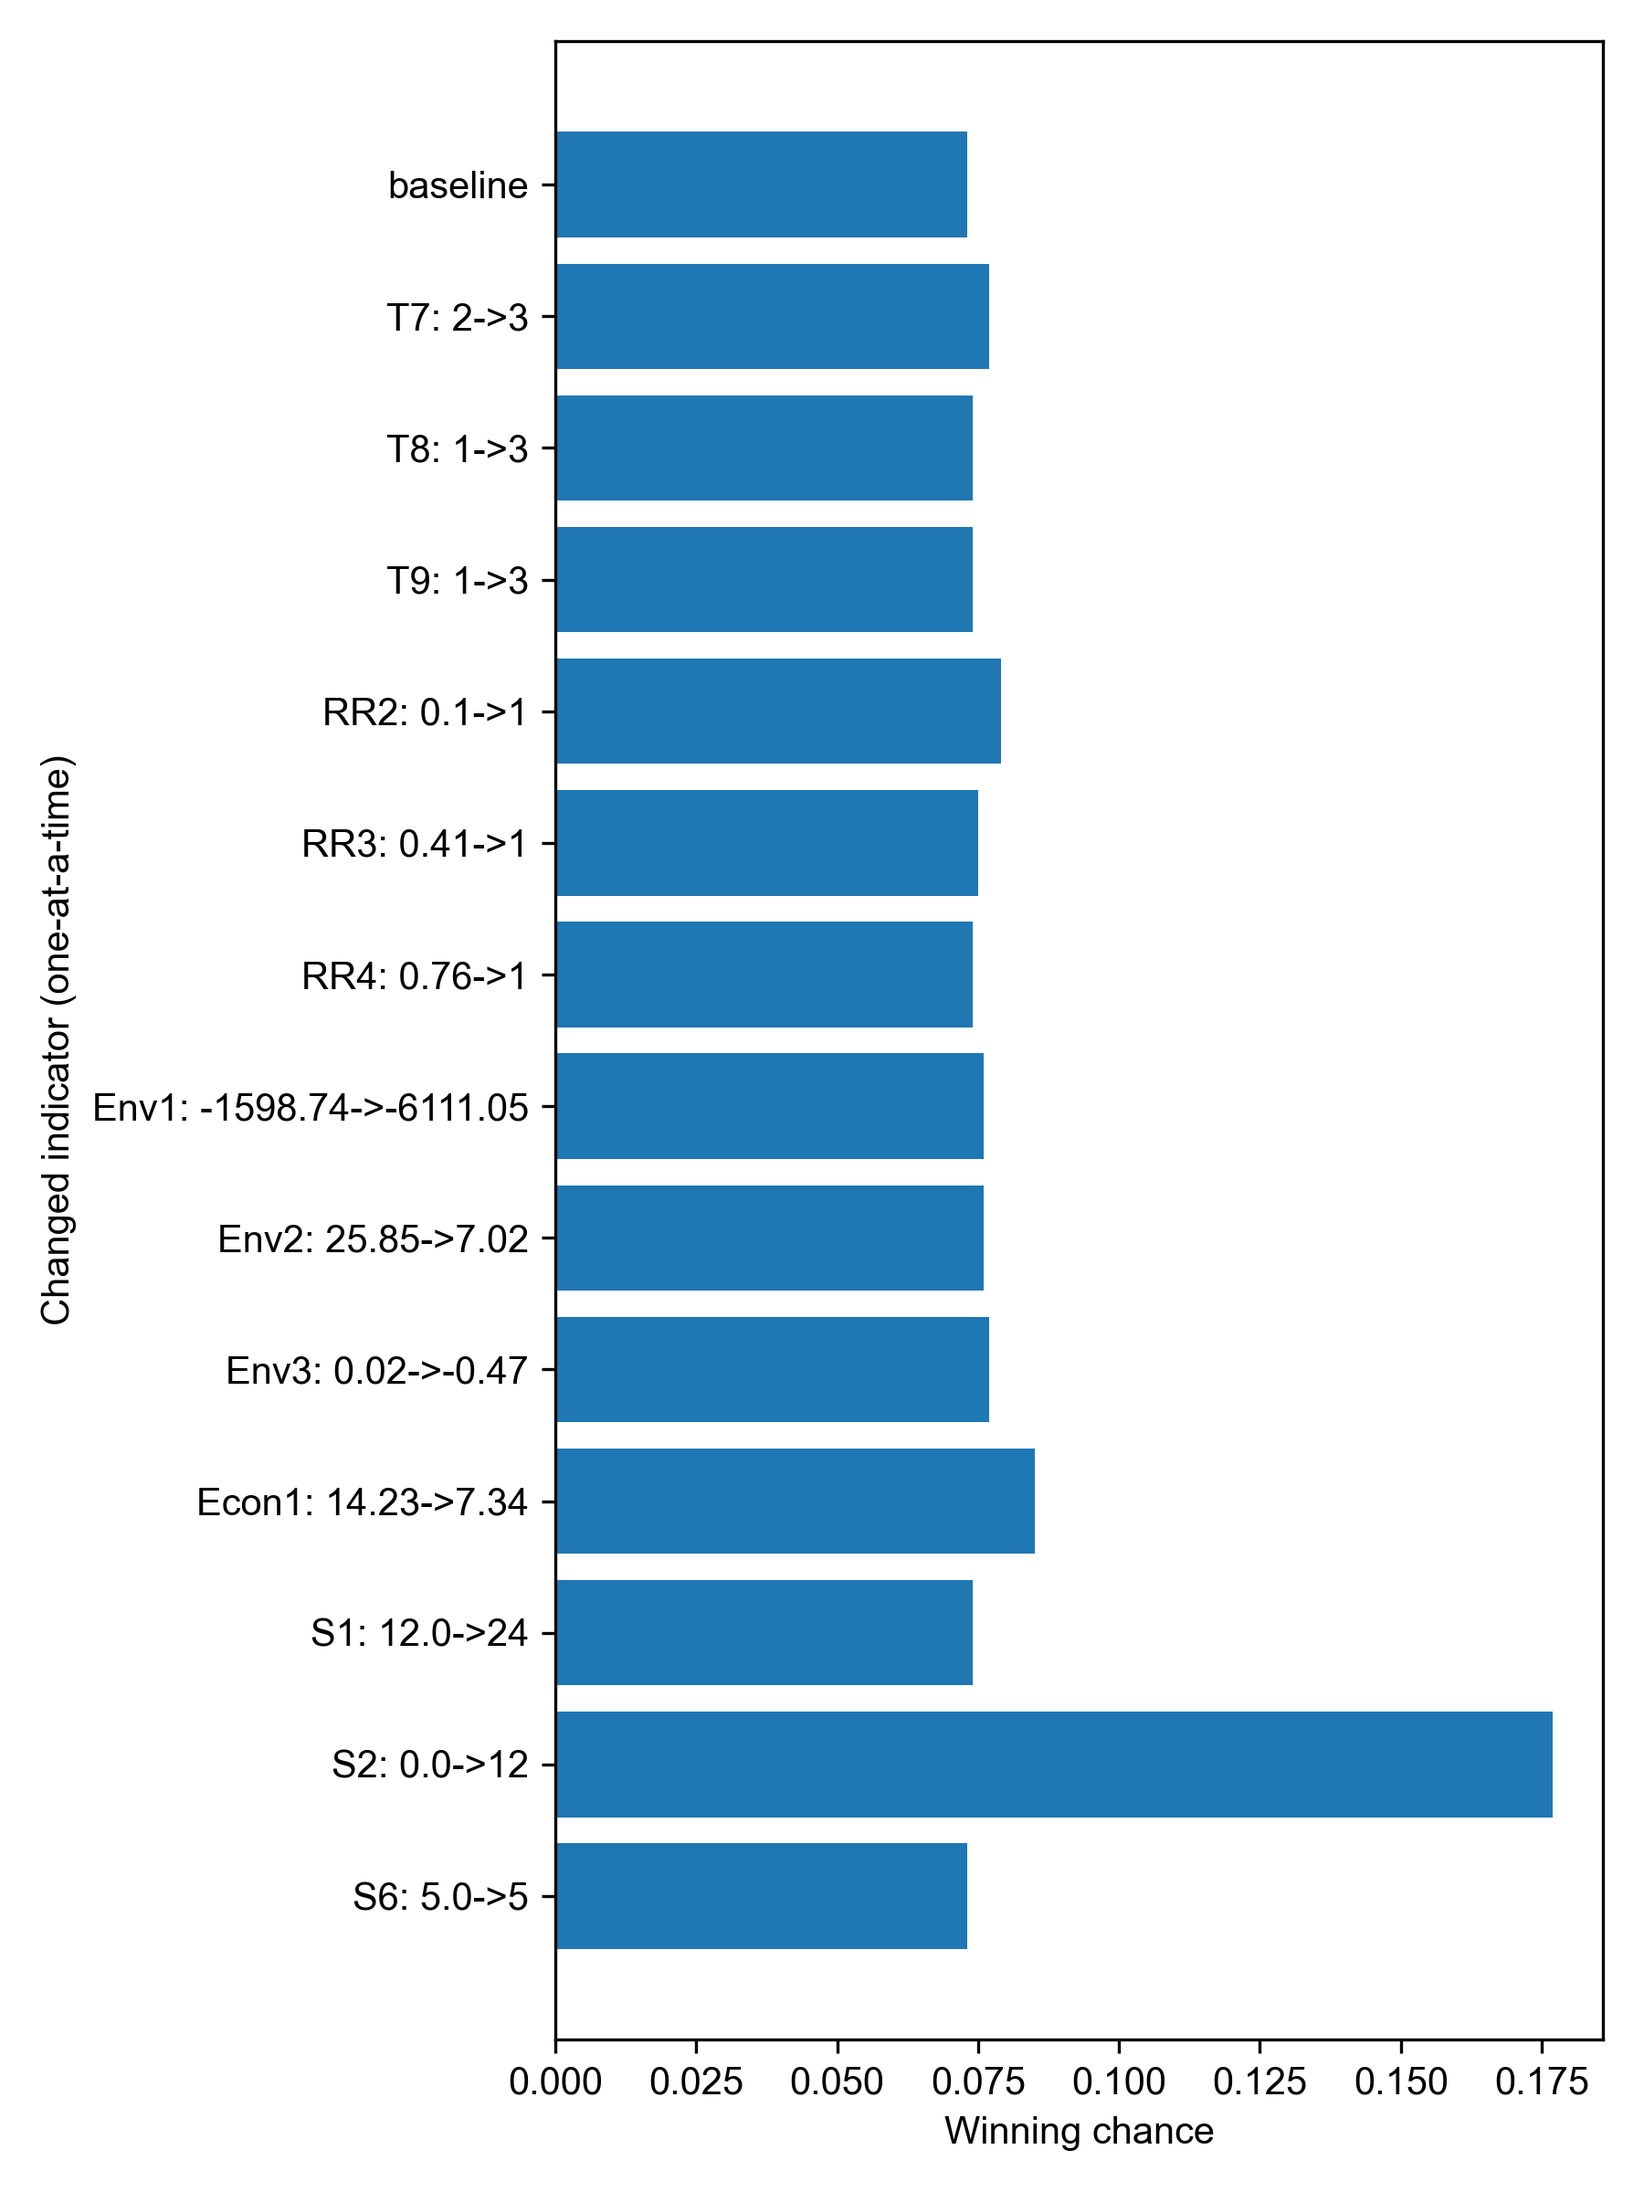
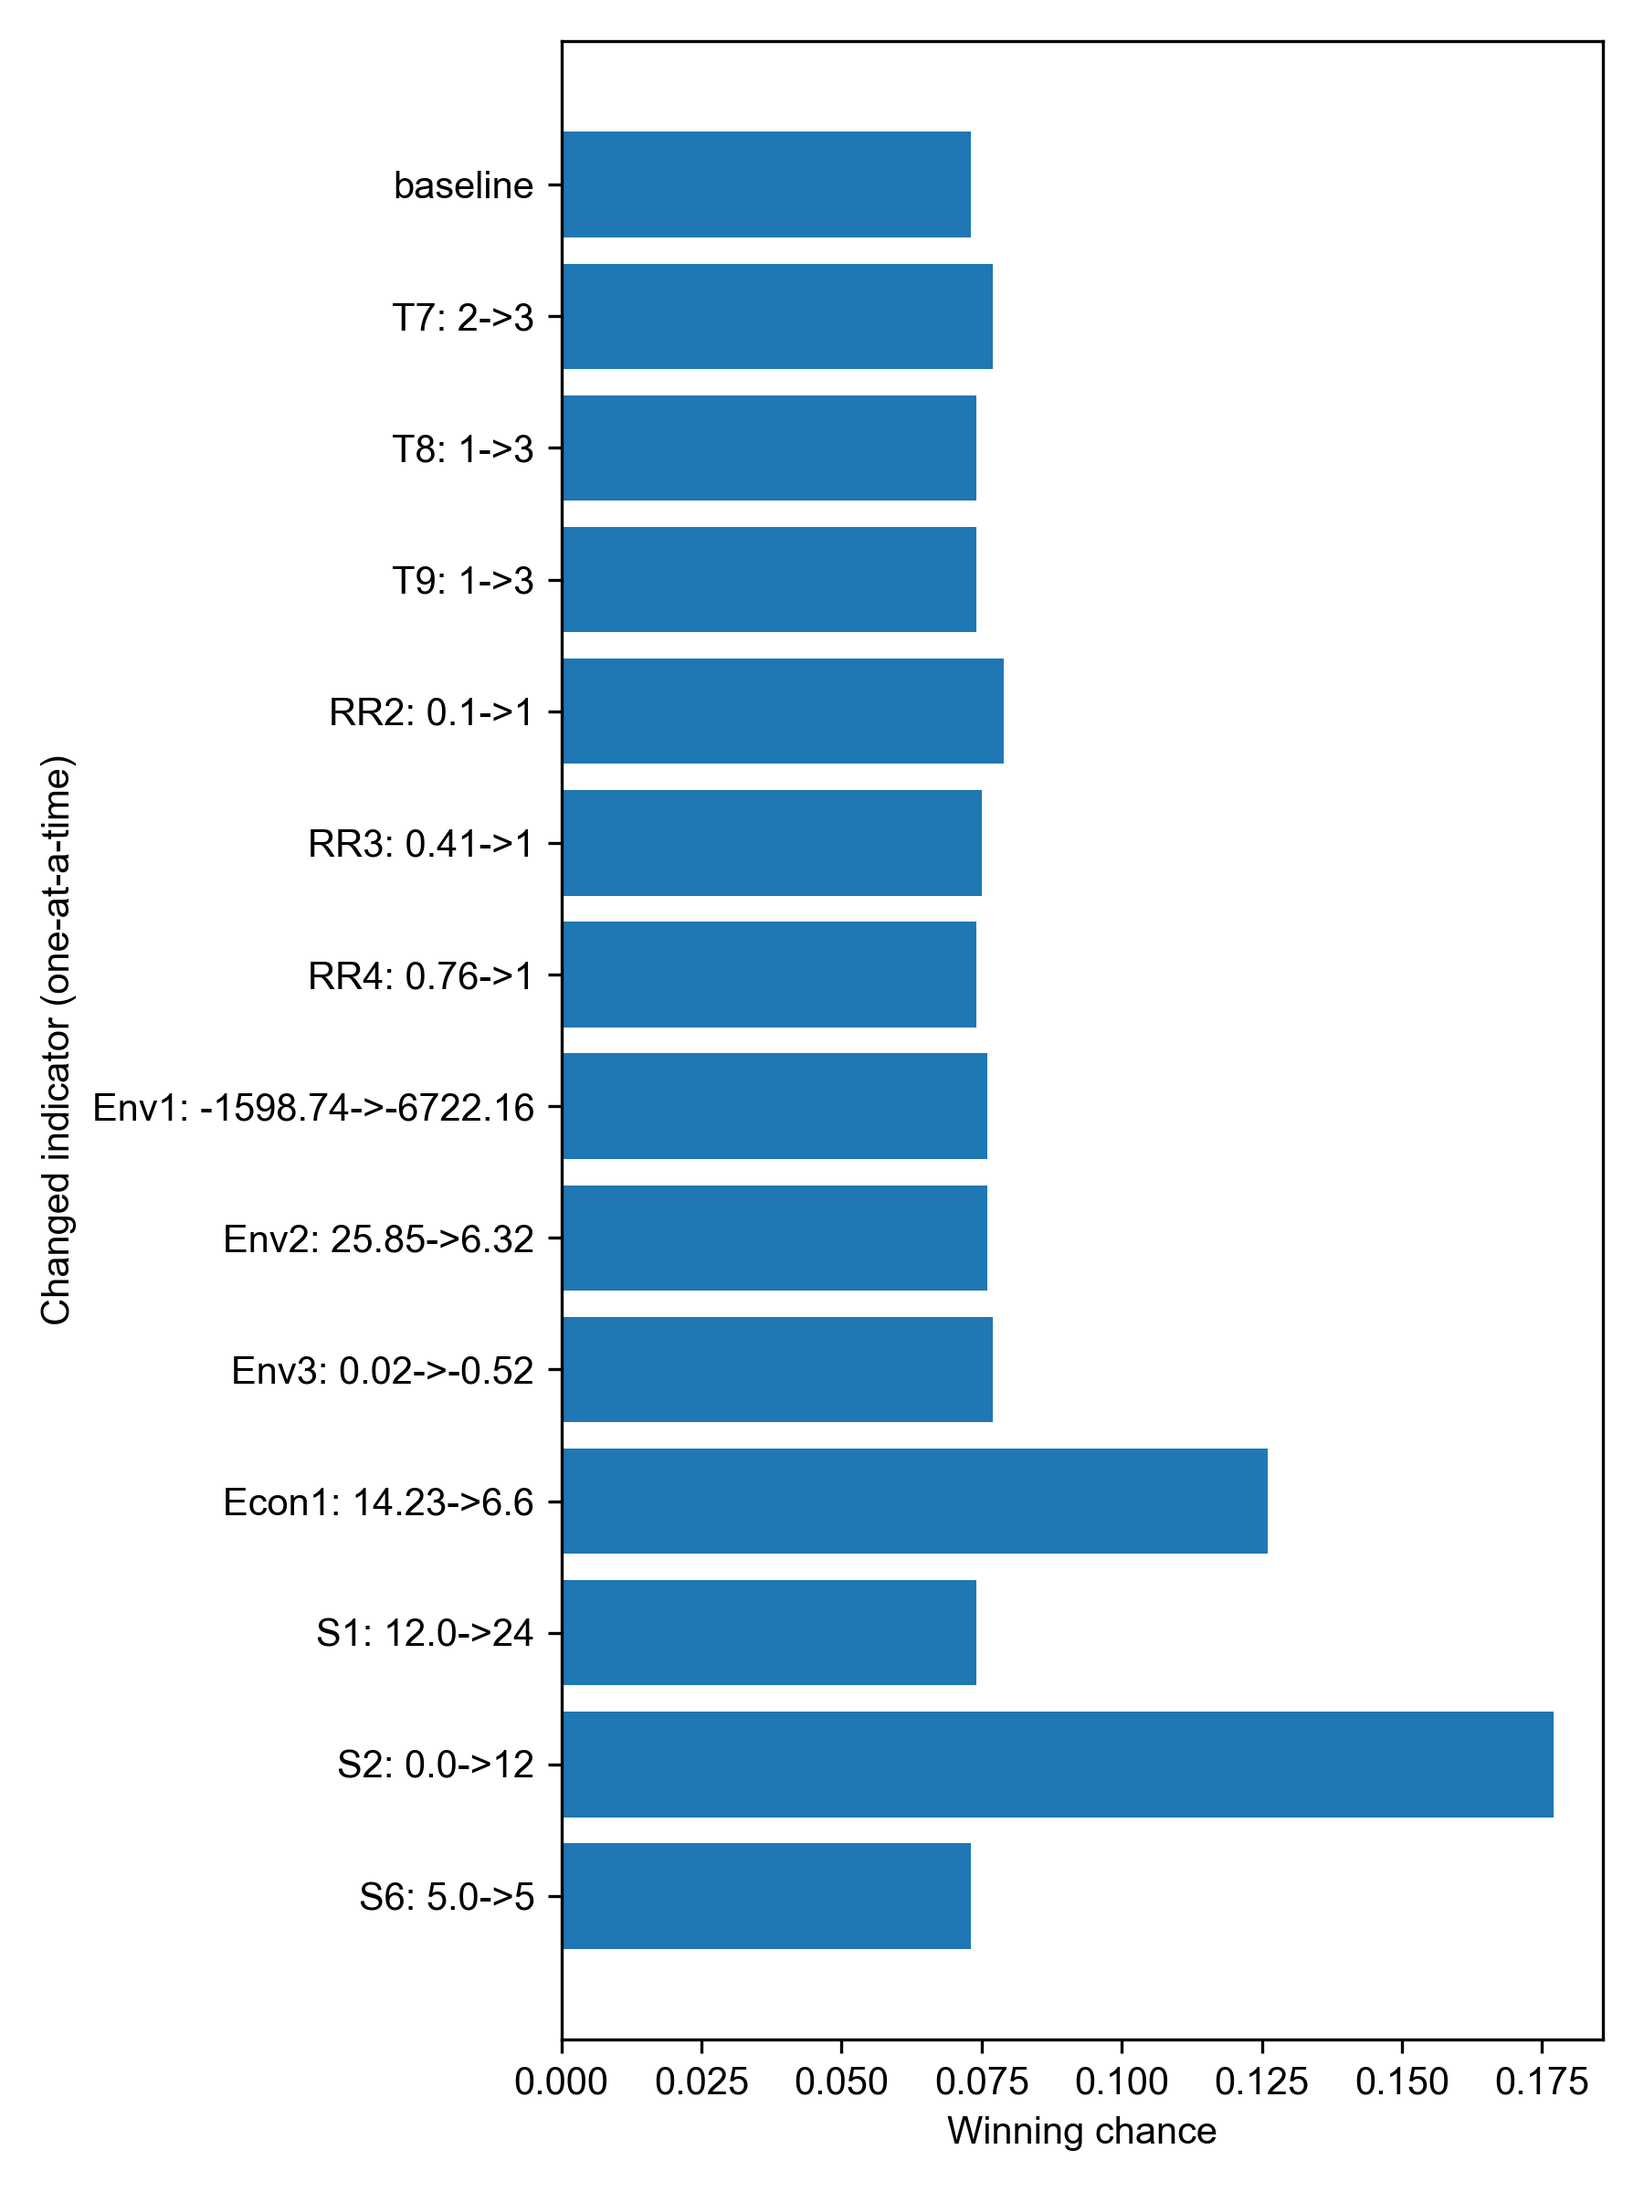
changed OAT best score
Updated OAT best score for economic and environmental to be 10% better than the lowest score among alternatives. This will allow the improved alternative to outperform the baseline best score instead of being a tie.

diff --git a/dmsan/bwaise/improvements.py b/dmsan/bwaise/improvements.py
@@ -128,12 +128,17 @@ def test_oat(mcda, alt, best_score={}):
                 updated = best_score[ind]
             else:
                 updated = series.min()
+                if updated < 0:
+                    updated *= 1.1
+                else:
+                    updated *= 0.9
 
         else: # beneficial
             if best_score.get(ind) is not None:
                 updated = best_score[ind]
             else:
                 updated = series.max()
+                updated *= 1.1
 
         mcda.indicator_scores.loc[alt_idx, ind] = updated
         if ind == 'T9': # T9 and RR1 are the same
